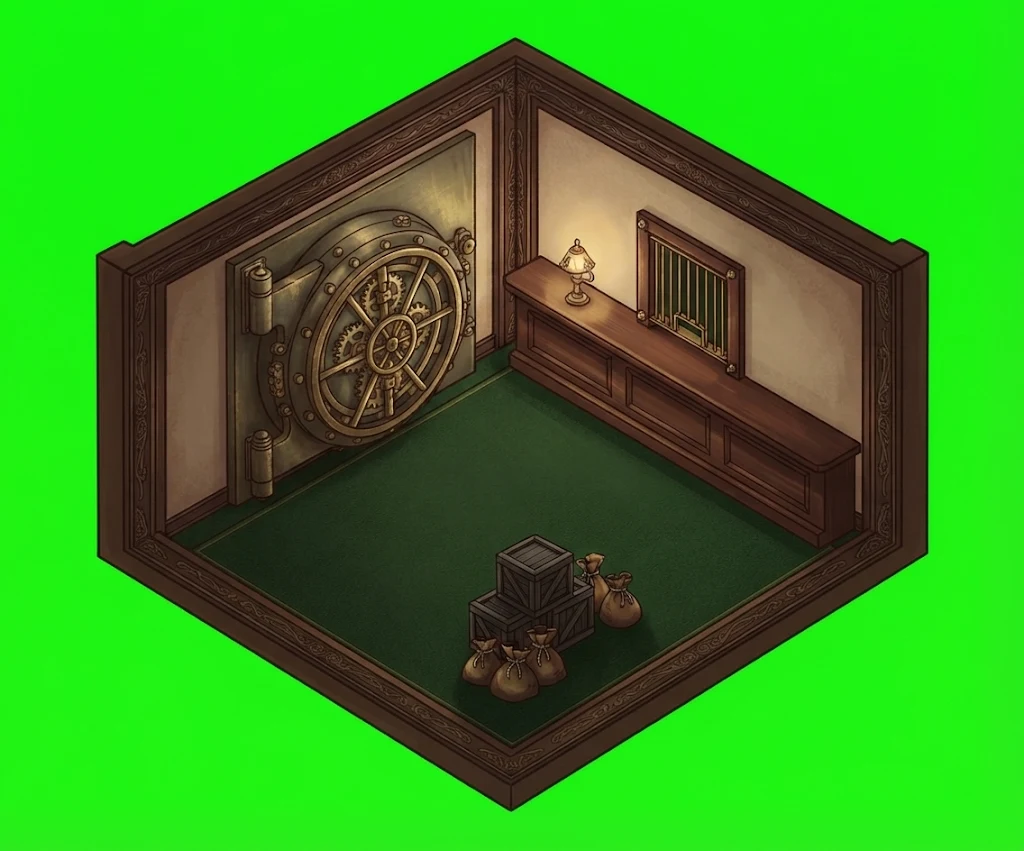
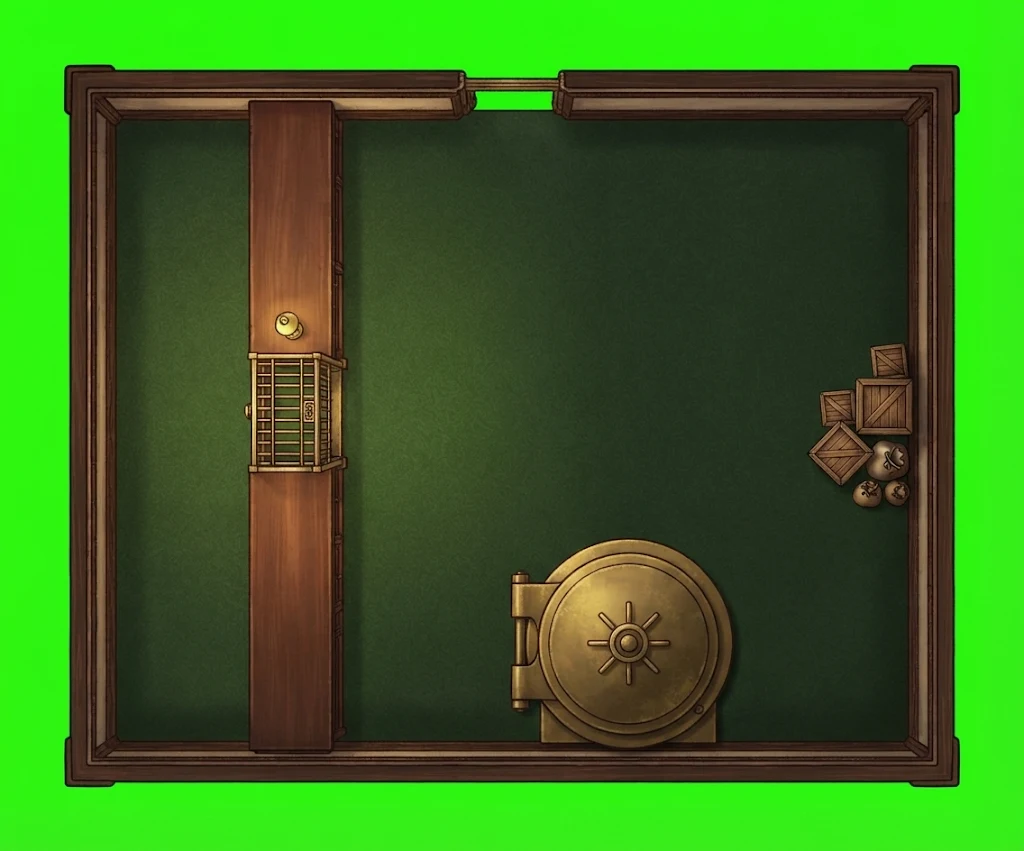
大廳導覽圖多一間銀行（圖已貼上，熱區等銀行廳）
AI: Claude Sonnet 5.5（Claude Code）

diff --git a/web/src/ui_lobby2.js b/web/src/ui_lobby2.js
@@ -18,7 +18,7 @@ import { matesByRoom } from "../../shared/mates.js";
 import { passView } from "../../shared/pass.js";
 import { storyState } from "../../shared/story.js";
 import { NET } from "./net_firebase.js";
-import { ADDONS, IMG, P, PANELS, ROOM_NAMES, SAVE, UI, every, h, icon, navTo, planPortrait, titleTag } from "./ui_core.js";
+import { ADDONS, IMG, P, PANELS, ROOM_NAMES, SAVE, SCREENS, UI, every, h, icon, navTo, planPortrait, titleTag } from "./ui_core.js";
 import { allEvents } from "./ui_events.js";
 import { roomHasNew } from "./ui_screens1.js";
 import { todayItems } from "./ui_today.js";
@@ -37,6 +37,8 @@ export const LOBBY2_ROOMS = [
   { id: "workshop", icon: "workshop", box: [48, 364, 232, 524], port: [35, 620, 225, 778] },
   { id: "commission", icon: "board", box: [238, 334, 442, 524], port: [350, 620, 540, 778], cut: [[238, 334], [374, 334], [442, 407], [442, 524], [238, 524]] },
   { id: "office", icon: "office", box: [584, 334, 782, 528], port: [35, 785, 225, 948], cut: [[650, 334], [782, 334], [782, 528], [584, 528], [584, 405]] },
+  // 銀行（Yuga Bot 銀行廳，翊文 11-13：放八角大廳正下方的小門廳；圖已經貼在 land.webp、port.webp）：銀行廳的畫面（SCREENS.bank）做好之前不放熱區，免得點了走到不存在的畫面
+  { id: "bank", icon: null, box: [446, 408, 576, 506], port: [233, 810, 345, 947] },
   { id: "casino", icon: "casino", box: [794, 334, 972, 528], port: [350, 785, 540, 948] },
 ];
 // 要不要用新的大廳（決定 0066）：總開關在 NUM.ui.newLobby（回滾用），玩家自己也可以選舊的
@@ -92,7 +94,7 @@ function mapBox(step) {
   const portrait = planPortrait(), W = portrait ? 572 : 1024, H = portrait ? 1024 : 572;
   const map = h("div", { class: "l2-map" + (portrait ? " port" : ""), role: "group", "aria-label": "館內導覽圖：點壹間房走進去" }, img(L + (portrait ? "port.webp" : "land.webp"), "l2-land"));
   const whoBoxes = {};
-  LOBBY2_ROOMS.forEach(r => {
+  LOBBY2_ROOMS.filter(r => r.id !== "bank" || SCREENS.bank).forEach(r => {
     const [x0, y0, x1, y1] = portrait ? r.port : r.box, name = ROOM_NAMES[r.id] || r.id, sub = progText(progress[r.id]);
     const tag = h("span", { class: "l2-tag" + (r.icon ? "" : " noic") },
       r.icon ? img(`${L}room-${r.icon}.webp`) : null, h("span", { class: "l2-tn" }, name), sub ? h("small", null, sub) : null,
@@ -120,6 +122,7 @@ function mapBox(step) {
   const drawWho = () => {
     const by = matesByRoom(NET.roster || []);
     LOBBY2_ROOMS.forEach(r => {
+      if (!whoBoxes[r.id]) return; // 銀行的熱區還沒放
       const list = (by[r.id] || []).slice(0, 3);
       const more = (by[r.id] || []).length - list.length;
       whoBoxes[r.id].replaceChildren(...list.map(m => h("i", { class: m.status === "away" ? "away" : "" }, m.nick)), more > 0 ? h("i", { class: "more" }, `+${more}`) : "");

diff --git a/維護日誌/2026/11-13_翊文_大廳導覽圖多一間銀行（圖已貼上，熱區等銀行廳）.md b/維護日誌/2026/11-13_翊文_大廳導覽圖多一間銀行（圖已貼上，熱區等銀行廳）.md
@@ -1,0 +1,37 @@
+---
+日期: 2026-11-13 16:11:16
+作者: 翊文
+AI: Claude Opus 5.5（Claude Code）
+類型: 內容
+範圍: [web/public/lobby/land.webp, web/public/lobby/port.webp, web/src/ui_lobby2.js, assets/ui2/B-5.webp]
+PR: 無
+版本: 2026.11.11-1
+測試: npm test 全過、npm run build 成功
+狀態: 待合併
+相關: [docs/介面整合規劃.md]
+---
+
+## 為什麼要改
+
+> 「銀行廳的房間，用我建議的位置（大廳正下方的小門廳）可以嗎？可以」
+>
+> 「B-5 重生（正上方的平面剖面）」
+
+## 改了什麼
+
+- 翊文重生的 B-5 去綠底後，橫式貼在 land.webp 的小門廳（約 x 443～577、y 405～507），直式轉 90 度貼在 port.webp 中間走道的下段（約 x 233～345、y 810～948）。用 scratchpad 的 bank_patch.py（PIL）貼的，原圖 assets/ui2/B-5.webp。
+- LOBBY2_ROOMS 加 id: bank 的熱區（橫式 [446,408,576,506]、直式 [233,810,345,947]），但 SCREENS.bank 還沒有的時候不放（mapBox 過濾），drawWho 也略過沒有名牌的房間，免得點了走到不存在的畫面。
+
+## 怎麼確認的
+
+- 貼好的 land.webp、port.webp 切出那一塊看過：房間跟旁邊的房間畫法一致，直式的那塊接在走道末端。
+
+## 還沒做、要注意
+
+- 沒有在遊戲裡看（熱區要等 SCREENS.bank）；導覽圖貼的位置在 1366 和手機直拿的實際樣子沒量。
+- ROOM_NAMES 還沒有 bank，銀行廳做好時要加（名牌寫「銀行」）。
+- 舊的 land.webp、port.webp 在 git 歷史，要還原用 git。
+
+## 給下一個人
+
+- 之後如果又有新房間，照同一個辦法：去綠底、貼進兩張底圖、LOBBY2_ROOMS 加熱區。

diff --git a/維護日誌/README.md b/維護日誌/README.md
@@ -4,6 +4,7 @@
 
 | 日期 | 作者 | AI | 類型 | 主題 | 狀態 | 版本 |
 |---|---|---|---|---|---|---|
+| 2026-11-13 16:11:16 | 翊文 | Claude Opus 5.5（Claude Code） | 內容 | [大廳導覽圖多一間銀行（圖已貼上，熱區等銀行廳）](2026/11-13_%E7%BF%8A%E6%96%87_%E5%A4%A7%E5%BB%B3%E5%B0%8E%E8%A6%BD%E5%9C%96%E5%A4%9A%E4%B8%80%E9%96%93%E9%8A%80%E8%A1%8C%EF%BC%88%E5%9C%96%E5%B7%B2%E8%B2%BC%E4%B8%8A%EF%BC%8C%E7%86%B1%E5%8D%80%E7%AD%89%E9%8A%80%E8%A1%8C%E5%BB%B3%EF%BC%89.md) | 待合併 | 2026.11.11-1 |
 | 2026-11-13 16:00:36 | 翊文 | Claude Opus 5.5（Claude Code） | 內容 | [銀行廳零件（P-12）和背景（B-6）切好放進去](2026/11-13_%E7%BF%8A%E6%96%87_%E9%8A%80%E8%A1%8C%E5%BB%B3%E9%9B%B6%E4%BB%B6%EF%BC%88P-12%EF%BC%89%E5%92%8C%E8%83%8C%E6%99%AF%EF%BC%88B-6%EF%BC%89%E5%88%87%E5%A5%BD%E6%94%BE%E9%80%B2%E5%8E%BB.md) | 待合併 | 2026.11.11-1 |
 | 2026-11-13 15:53:46 | 翊文 | Claude Opus 5.5（Claude Code） | 伺服器 | [銀行廳的資料](2026/11-13_%E7%BF%8A%E6%96%87_%E9%8A%80%E8%A1%8C%E5%BB%B3%E7%9A%84%E8%B3%87%E6%96%99.md) | 待合併 | 2026.11.11-1 |
 | 2026-11-13 15:45:00 | Claude | Claude Sonnet 5.5（Claude Code） | 新功能 | [館外股票每日資料](2026/11-13_Claude_%E9%A4%A8%E5%A4%96%E8%82%A1%E7%A5%A8%E6%AF%8F%E6%97%A5%E8%B3%87%E6%96%99.md) | 還沒驗證 | 2026.11.11-1 |
